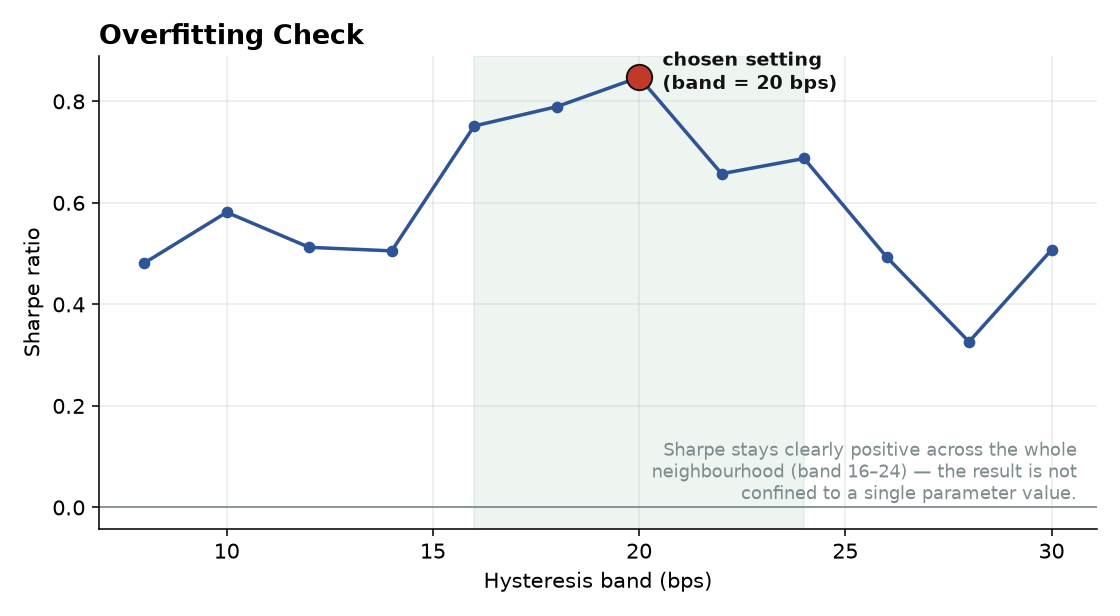
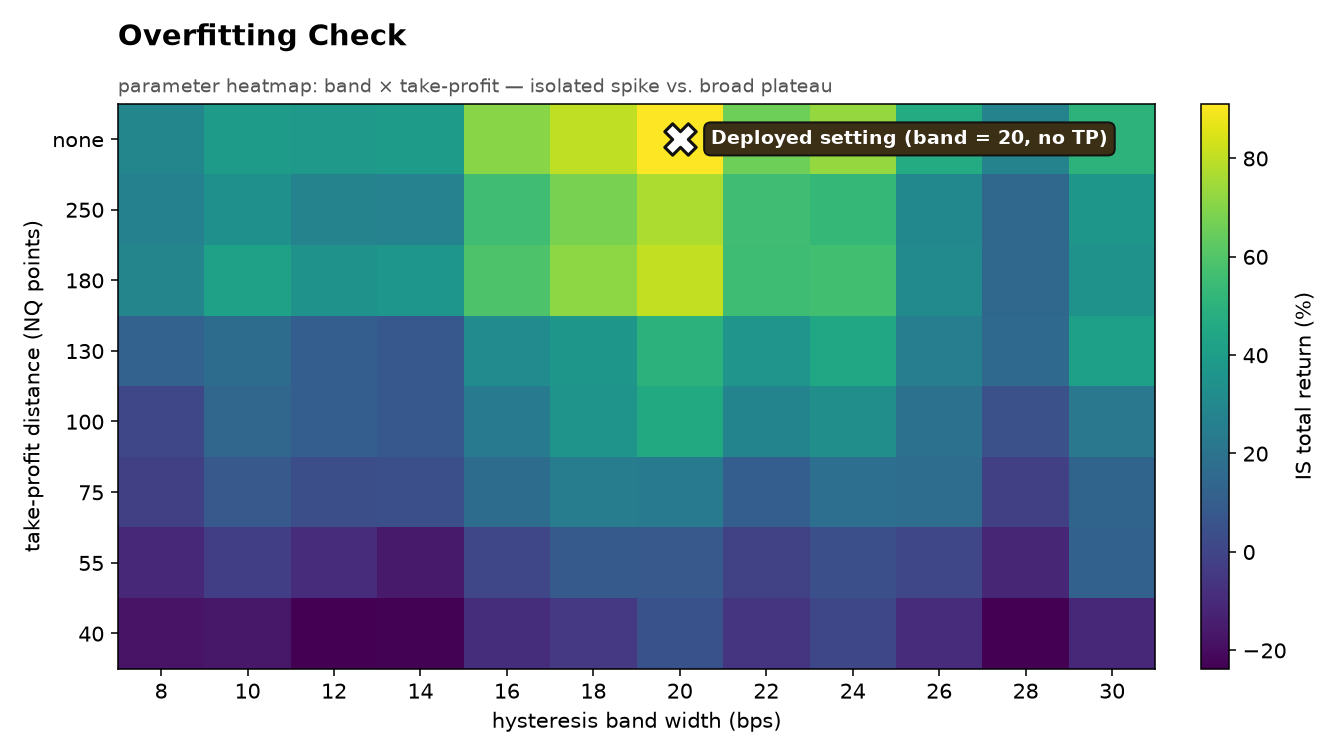
docs: overfitting check as band x TP total-return heatmap (viridis)
Replace the 1D band-sensitivity version with the 2D parameter heatmap
(IS total return, viridis, deployed setting marked) matching the
intended style. Real data from vwap_grid2d.csv.

Claude-Session: https://claude.ai/code/session_013r7ovPSZArf9XucUhV1eXv

diff --git a/docs/figures_vysledky/_make_overfit_heatmap.py b/docs/figures_vysledky/_make_overfit_heatmap.py
@@ -1,0 +1,42 @@
+#!/usr/bin/env python3
+# Overfitting check = band x take-profit heatmap of IS total return (viridis),
+# deployed setting marked with an X. Real data from vwap_grid2d.csv.
+import numpy as np, pandas as pd
+import matplotlib; matplotlib.use("Agg")
+import matplotlib.pyplot as plt
+
+OUT = "/home/user/Strong-Chicken-Journal/docs/figures_vysledky/overfitting_check.png"
+g = pd.read_csv("/home/user/Strong-Chicken-Journal/results/vwap_grid2d.csv")
+
+bands = sorted(g.band_bps.unique())
+tps = [0, 250, 180, 130, 100, 75, 55, 40]           # top -> bottom (0 = none/no TP)
+M = np.full((len(tps), len(bands)), np.nan)
+for _, r in g.iterrows():
+    yi = tps.index(int(r.tp_points)); xi = bands.index(int(r.band_bps))
+    M[yi, xi] = r.is_total_ret_pct
+
+plt.rcParams.update({"font.family": "DejaVu Sans", "font.size": 11, "figure.dpi": 140})
+fig, ax = plt.subplots(figsize=(9.6, 5.4))
+im = ax.imshow(M, cmap="viridis", aspect="auto")
+ax.set_xticks(range(len(bands))); ax.set_xticklabels([int(b) for b in bands])
+ax.set_yticks(range(len(tps)))
+ax.set_yticklabels(["none" if t == 0 else int(t) for t in tps])
+ax.set_xlabel("hysteresis band width (bps)")
+ax.set_ylabel("take-profit distance (NQ points)")
+ax.set_title("Overfitting Check", fontsize=15, fontweight="bold", loc="left", pad=30)
+ax.text(0, 1.02, "parameter heatmap: band × take-profit — isolated spike vs. broad plateau",
+        transform=ax.transAxes, fontsize=10, color="#555")
+
+# deployed setting: band = 20, no TP (top row)
+cx = bands.index(20); cy = tps.index(0)
+ax.scatter([cx], [cy], marker="X", s=260, color="#fff", edgecolors="#111",
+           linewidths=1.6, zorder=6)
+ax.annotate("Deployed setting (band = 20, no TP)", (cx, cy),
+            textcoords="offset points", xytext=(16, 0), va="center", fontsize=10,
+            color="#fff", fontweight="bold",
+            bbox=dict(boxstyle="round,pad=0.35", fc="#3b2f16", ec="#111"))
+cb = fig.colorbar(im, ax=ax, fraction=0.046, pad=0.04)
+cb.set_label("IS total return (%)")
+fig.tight_layout(); fig.savefig(OUT); plt.close(fig)
+print("wrote", OUT)
+print("deployed cell IS total return:", M[cy, cx], "%")
